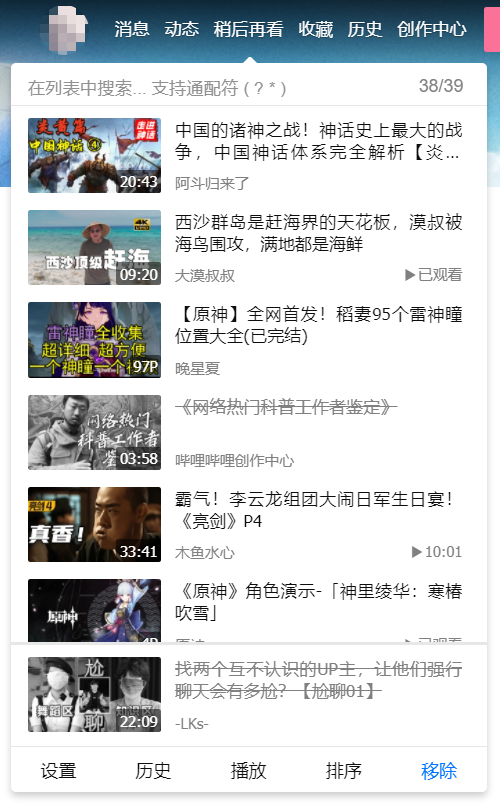
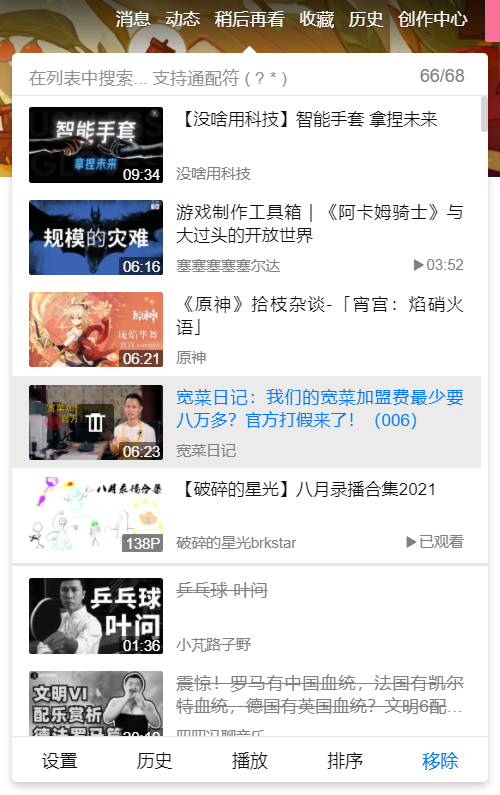
B站稍后再看功能增强 4.17.10.20210815
* 弹出菜单：避免状态按钮与视频时长重叠，并优化相关显示。
* UI：排除在某些页面官方样式对脚本显示造成的不良影响。

diff --git a/script/BilibiliWatchlaterPlus/BilibiliWatchlaterPlus.user.js b/script/BilibiliWatchlaterPlus/BilibiliWatchlaterPlus.user.js
@@ -1,6 +1,6 @@
 // ==UserScript==
 // @name            B站稍后再看功能增强
-// @version         4.17.9.20210814
+// @version         4.17.10.20210815
 // @namespace       laster2800
 // @author          Laster2800
 // @description     与稍后再看功能相关，一切你能想到和想不到的功能
@@ -758,7 +758,7 @@
       GM_registerMenuCommand('用户设置', () => _self.openUserSetting())
       if (gm.config.removeHistory) {
         // 稍后再看移除记录
-        GM_registerMenuCommand('稍后再看移除记录', () => _self.openRemoveHistory()) // 注意不要直接传函数对象，否则 this 不对
+        GM_registerMenuCommand('稍后再看移除记录', () => _self.openRemoveHistory())
         // 清空稍后再看历史数据
         GM_registerMenuCommand('清空稍后再看历史数据', () => _self.cleanRemoveHistoryData())
       }
@@ -4294,6 +4294,7 @@
   
           #${gm.id} {
             color: var(--${gm.id}-text-color);
+            font-family: Arial, Microsoft Yahei, Hiragino Sans GB, sans-serif;
           }
           #${gm.id} * {
             box-sizing: content-box;
@@ -4403,7 +4404,7 @@
             cursor: default;
           }
           #${gm.id} .gm-entrypopup .gm-entry-list .gm-entry-list-item .gm-card-cover {
-            width: 7.82em;
+            width: 7.82em; /* 16:9 */
             height: 4.40em;
             border-radius: 2px;
           }
@@ -4411,10 +4412,11 @@
             position: absolute;
[1 lines of base64/hex data omitted]
             background-size: contain;
-            width: 34px;
-            height: 34px;
-            top: calc(2.2em - 17px);
-            left: calc(3.9em - 17px);
+            background-repeat: no-repeat;
+            width: 30px;
+            height: 30px;
+            top: calc(2.20em - 15px); /* 与缩略图显示尺寸匹配 */
+            left: calc(3.91em - 15px);
             z-index: 2;
             display: none;
             cursor: pointer;
@@ -4425,17 +4427,18 @@
           #${gm.id} .gm-entrypopup .gm-entry-list .gm-entry-list-item:hover .gm-card-switcher {
             display: unset;
           }
-          #${gm.id} .gm-entrypopup .gm-entry-list .gm-entry-list-item .gm-card-duration,
+          #${gm.id} .gm-entrypopup .gm-entry-list .gm-entry-list-item:not(.gm-card-multiP) .gm-card-duration,
           #${gm.id} .gm-entrypopup .gm-entry-list .gm-card-multiP .gm-card-duration > * {
             position: absolute;
             bottom: 0;
             right: 0;
             background: var(--${gm.id}-text-shadow-color);
             color: var(--${gm.id}-light-text-color);
-            border-radius: 2px;
-            padding: 2px 3px;
+            border-radius: 2px 0 2px 0; /* 需与缩略图圆角匹配 */
+            padding: 1.5px 2px 0 3px;
             font-size: 0.8em;
             z-index: 1;
+            word-break: keep-all;
           }
           #${gm.id} .gm-entrypopup .gm-entry-list .gm-card-multiP .gm-card-duration > * {
             transition: var(--${gm.id}-opacity-fade-quick-transition);

diff --git a/script/BilibiliWatchlaterPlus/changelog.md b/script/BilibiliWatchlaterPlus/changelog.md
@@ -11,18 +11,20 @@
 5. 弹出菜单：菜单中增加排序控制器，用于对菜单内列表内容进行排序。相应地，为该功能新增「在弹出菜单底部显示排序控制器」选项。
 6. 弹出菜单：分 P 视频一般显示分 P 总数，鼠标悬浮至上方时显示总时长。
 7. 弹出菜单：优化开启菜单时重新应用搜索的时间点，以避免被用户观察到。
-8. 列表页面：在执行排序、搜索、移除操作后，强制触发项目内容更新，避免出现项目显示不完整的情况。
-9. 用户设置：设置页配置项分类逻辑调整。新增「相关调整」大类，用于归类与「稍后再看」无直接联系，但会从各方面影响脚本使用的配置。
-10. 用户设置：在功能性更新设置页的滚动条中标示出更新项的位置，且必须在滚动到最后一项更新项时才能保存。
-11. 用户设置：优化内部处理逻辑。
-12. 顶栏入口：优化第三方兼容。
-13. 脚本：优化主流程。
-14. 脚本：优化初始化流程。
-15. UI：优化滚动条重置的时间点。
-16. UI：优化脚本菜单页面间的层叠显示。
-17. UI：优化位置计算。
-18. UI：优化文本。
-19. API：升级至 V1.4。详见 [UserscriptAPI 更新日志](https://gitee.com/liangjiancang/userscript/blob/master/lib/UserscriptAPI/changelog.md)。
+8. 弹出菜单：避免状态按钮与视频时长重叠，并优化相关显示。
+9. 列表页面：在执行排序、搜索、移除操作后，强制触发项目内容更新，避免出现项目显示不完整的情况。
+10. 用户设置：设置页配置项分类逻辑调整。新增「相关调整」大类，用于归类与「稍后再看」无直接联系，但会从各方面影响脚本使用的配置。
+11. 用户设置：在功能性更新设置页的滚动条中标示出更新项的位置，且必须在滚动到最后一项更新项时才能保存。
+12. 用户设置：优化内部处理逻辑。
+13. 顶栏入口：优化第三方兼容。
+14. 脚本：优化主流程。
+15. 脚本：优化初始化流程。
+16. UI：排除在某些页面官方样式对脚本显示造成的不良影响。
+17. UI：优化滚动条重置的时间点。
+18. UI：优化脚本菜单页面间的层叠显示。
+19. UI：优化位置计算。
+20. UI：优化文本。
+21. API：升级至 V1.4。详见 [UserscriptAPI 更新日志](https://gitee.com/liangjiancang/userscript/blob/master/lib/UserscriptAPI/changelog.md)。
 
 > 其实 V4.17.0 并没有更新什么功能，只是 V4.16 累积更新内容太多了，还是升个小版本吧。
 
